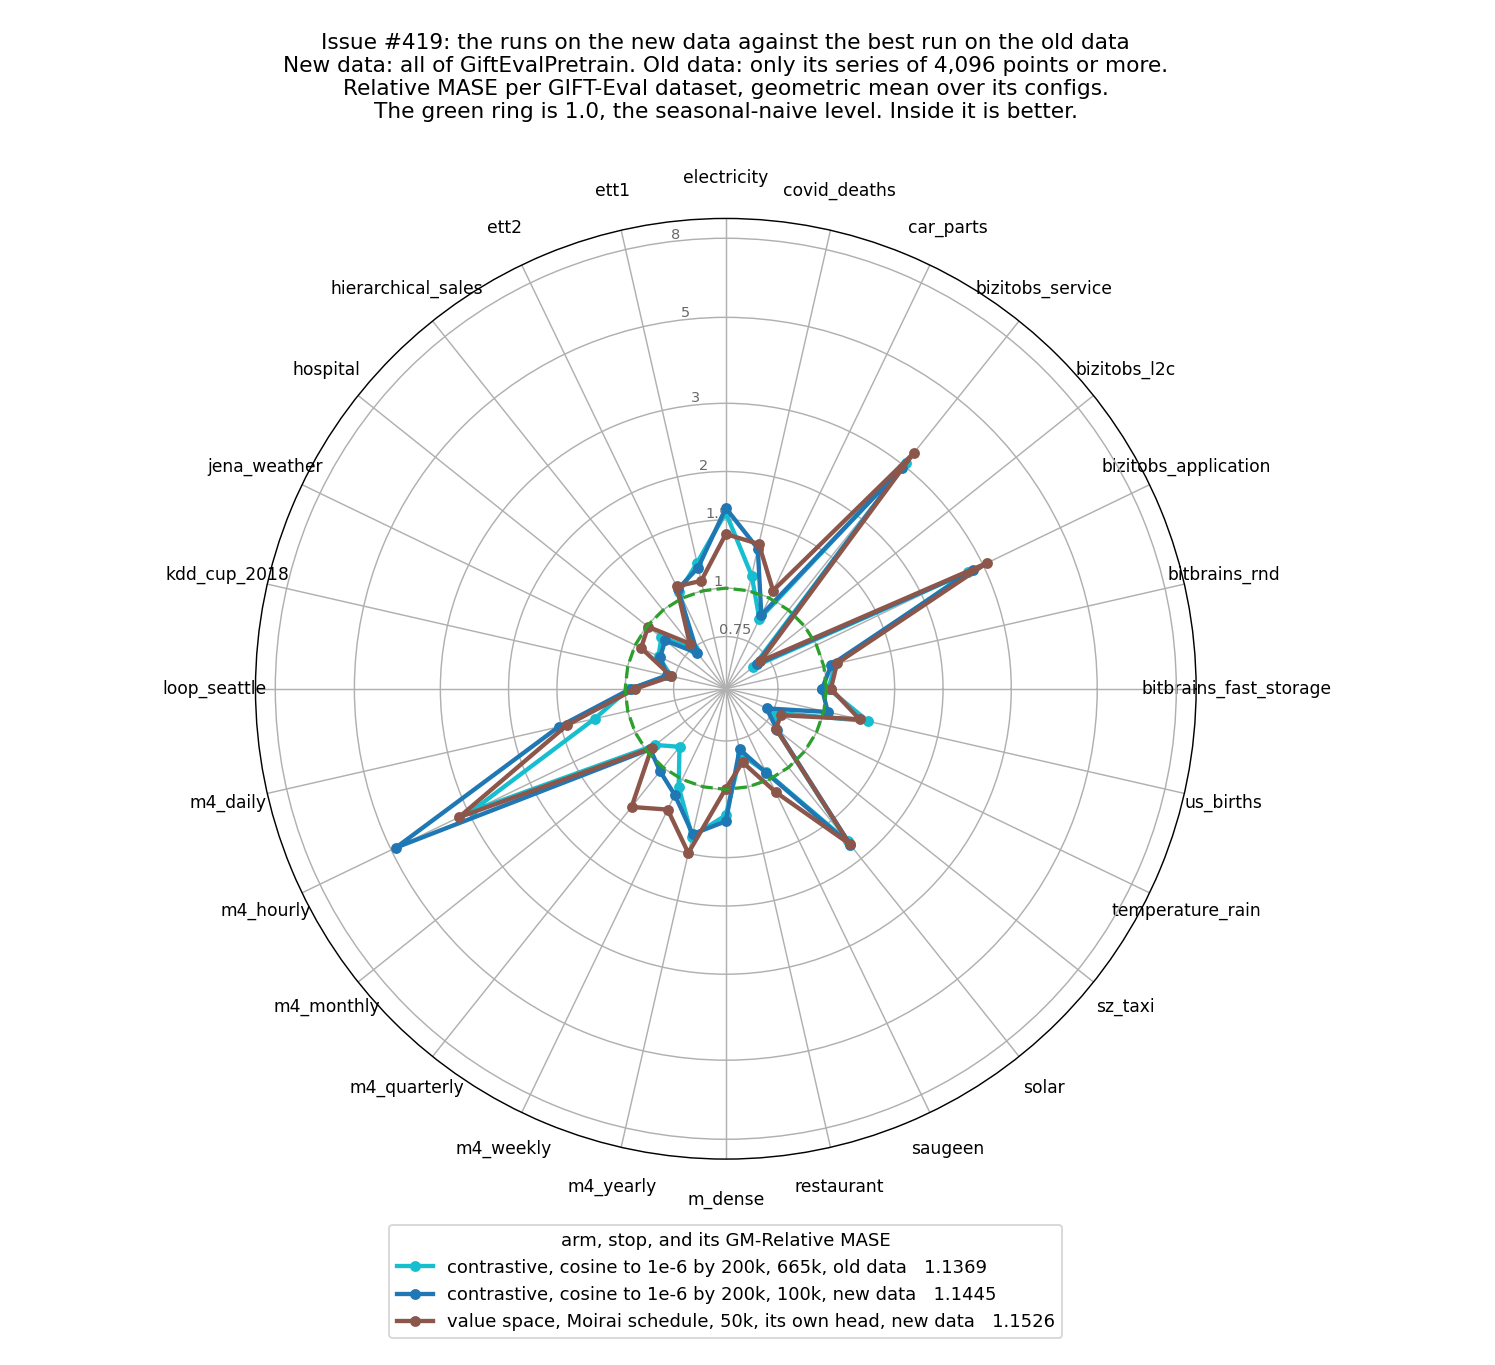
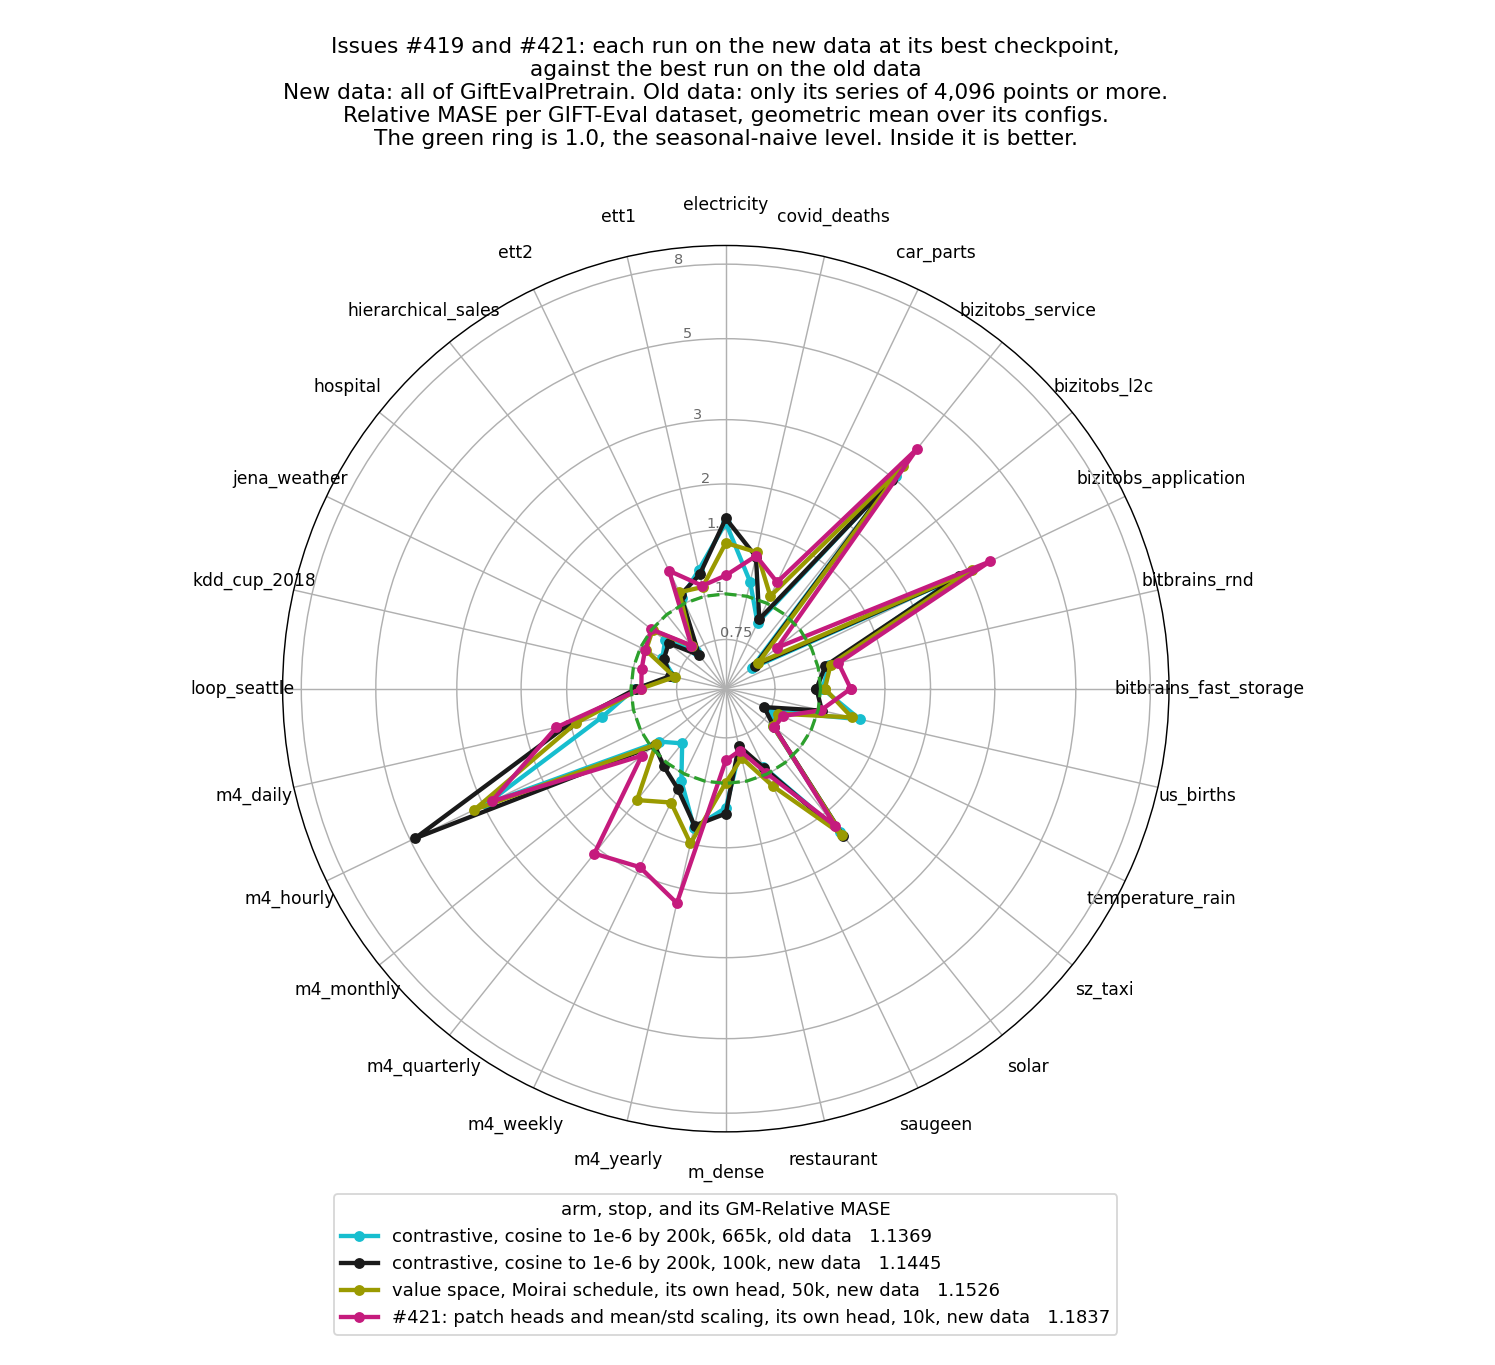
exp(#419, #421): the radar shows each new-data run at its best checkpoint
cos200k at 100k (1.1445), the #419 Moirai at 50k (1.1526) and the #421
Moirai at 10k (1.1837), against cyan at 665k (1.1369). The colours match
the curves.

diff --git a/reports/2026-09-06_moirai_small_size/scripts/plot_radar_419.py b/reports/2026-09-06_moirai_small_size/scripts/plot_radar_419.py
@@ -1,14 +1,22 @@
-"""#419: the runs on all of GiftEvalPretrain against the best run on the old data.
+"""#419 and #421: each run on all of GiftEvalPretrain at its best checkpoint,
+against the best run on the old data.
 
-The contrastive arm shows its newest scored stop. The value-space arm shows its
-best native stop. A stop enters once its score file is in results/ and its
-per-config CSV is in results/per_config/radar.
+A stop enters once its score file is in results/ and its per-config CSV is in
+results/per_config/radar. The colours are those of the curves figure.
 """
 import re
 from radar_lib import RADAR, STUDY, draw
 
+# Run name in results/, CSV prefix in the radar folder, legend label, colour.
+NEW_DATA = [
+    ("cf419_cos200k", "cos419_", "contrastive, cosine to 1e-6 by 200k", "#1a1a1a"),
+    ("cf419_moirai_native", "moirai419_native", "value space, Moirai schedule, its own head", "#9a9a00"),
+    ("cf421z_moirai_native", "moirai421z_native",
+     "#421: patch heads and mean/std scaling, its own head", "#c51b7d"),
+]
 OLD_BEST = ("cyan665", "contrastive, cosine to 1e-6 by 200k, 665k, old data   1.1369", "#17becf")
-TITLE = ("Issue #419: the runs on the new data against the best run on the old data\n"
+TITLE = ("Issues #419 and #421: each run on the new data at its best checkpoint,\n"
+         "against the best run on the old data\n"
          "New data: all of GiftEvalPretrain. Old data: only its series of 4,096 points or more.\n"
          "Relative MASE per GIFT-Eval dataset, geometric mean over its configs.\n"
          "The green ring is 1.0, the seasonal-naive level. Inside it is better.")
@@ -25,15 +33,13 @@ def scored_stops(arm, csv_prefix):
 
 
 def new_data_arms():
-    """The newest contrastive stop and the best value-space stop, when they exist."""
-    arms, cos = [], scored_stops("cf419_cos200k", "cos419_")
-    moirai = scored_stops("cf419_moirai_native", "moirai419_native")
-    if cos:
-        k = max(cos)
-        arms.append((f"cos419_{k}k", f"contrastive, cosine to 1e-6 by 200k, {k}k, new data   {cos[k]:.4f}", "#1f77b4"))
-    if moirai:
-        k = min(moirai, key=moirai.get)
-        arms.append((f"moirai419_native{k}k", f"value space, Moirai schedule, {k}k, its own head, new data   {moirai[k]:.4f}", "#8c564b"))
+    """The best scored stop of each new-data run, when it has one."""
+    arms = []
+    for arm, prefix, label, colour in NEW_DATA:
+        stops = scored_stops(arm, prefix)
+        if stops:
+            k = min(stops, key=stops.get)
+            arms.append((f"{prefix}{k}k", f"{label}, {k}k, new data   {stops[k]:.4f}", colour))
     return arms
 
 
